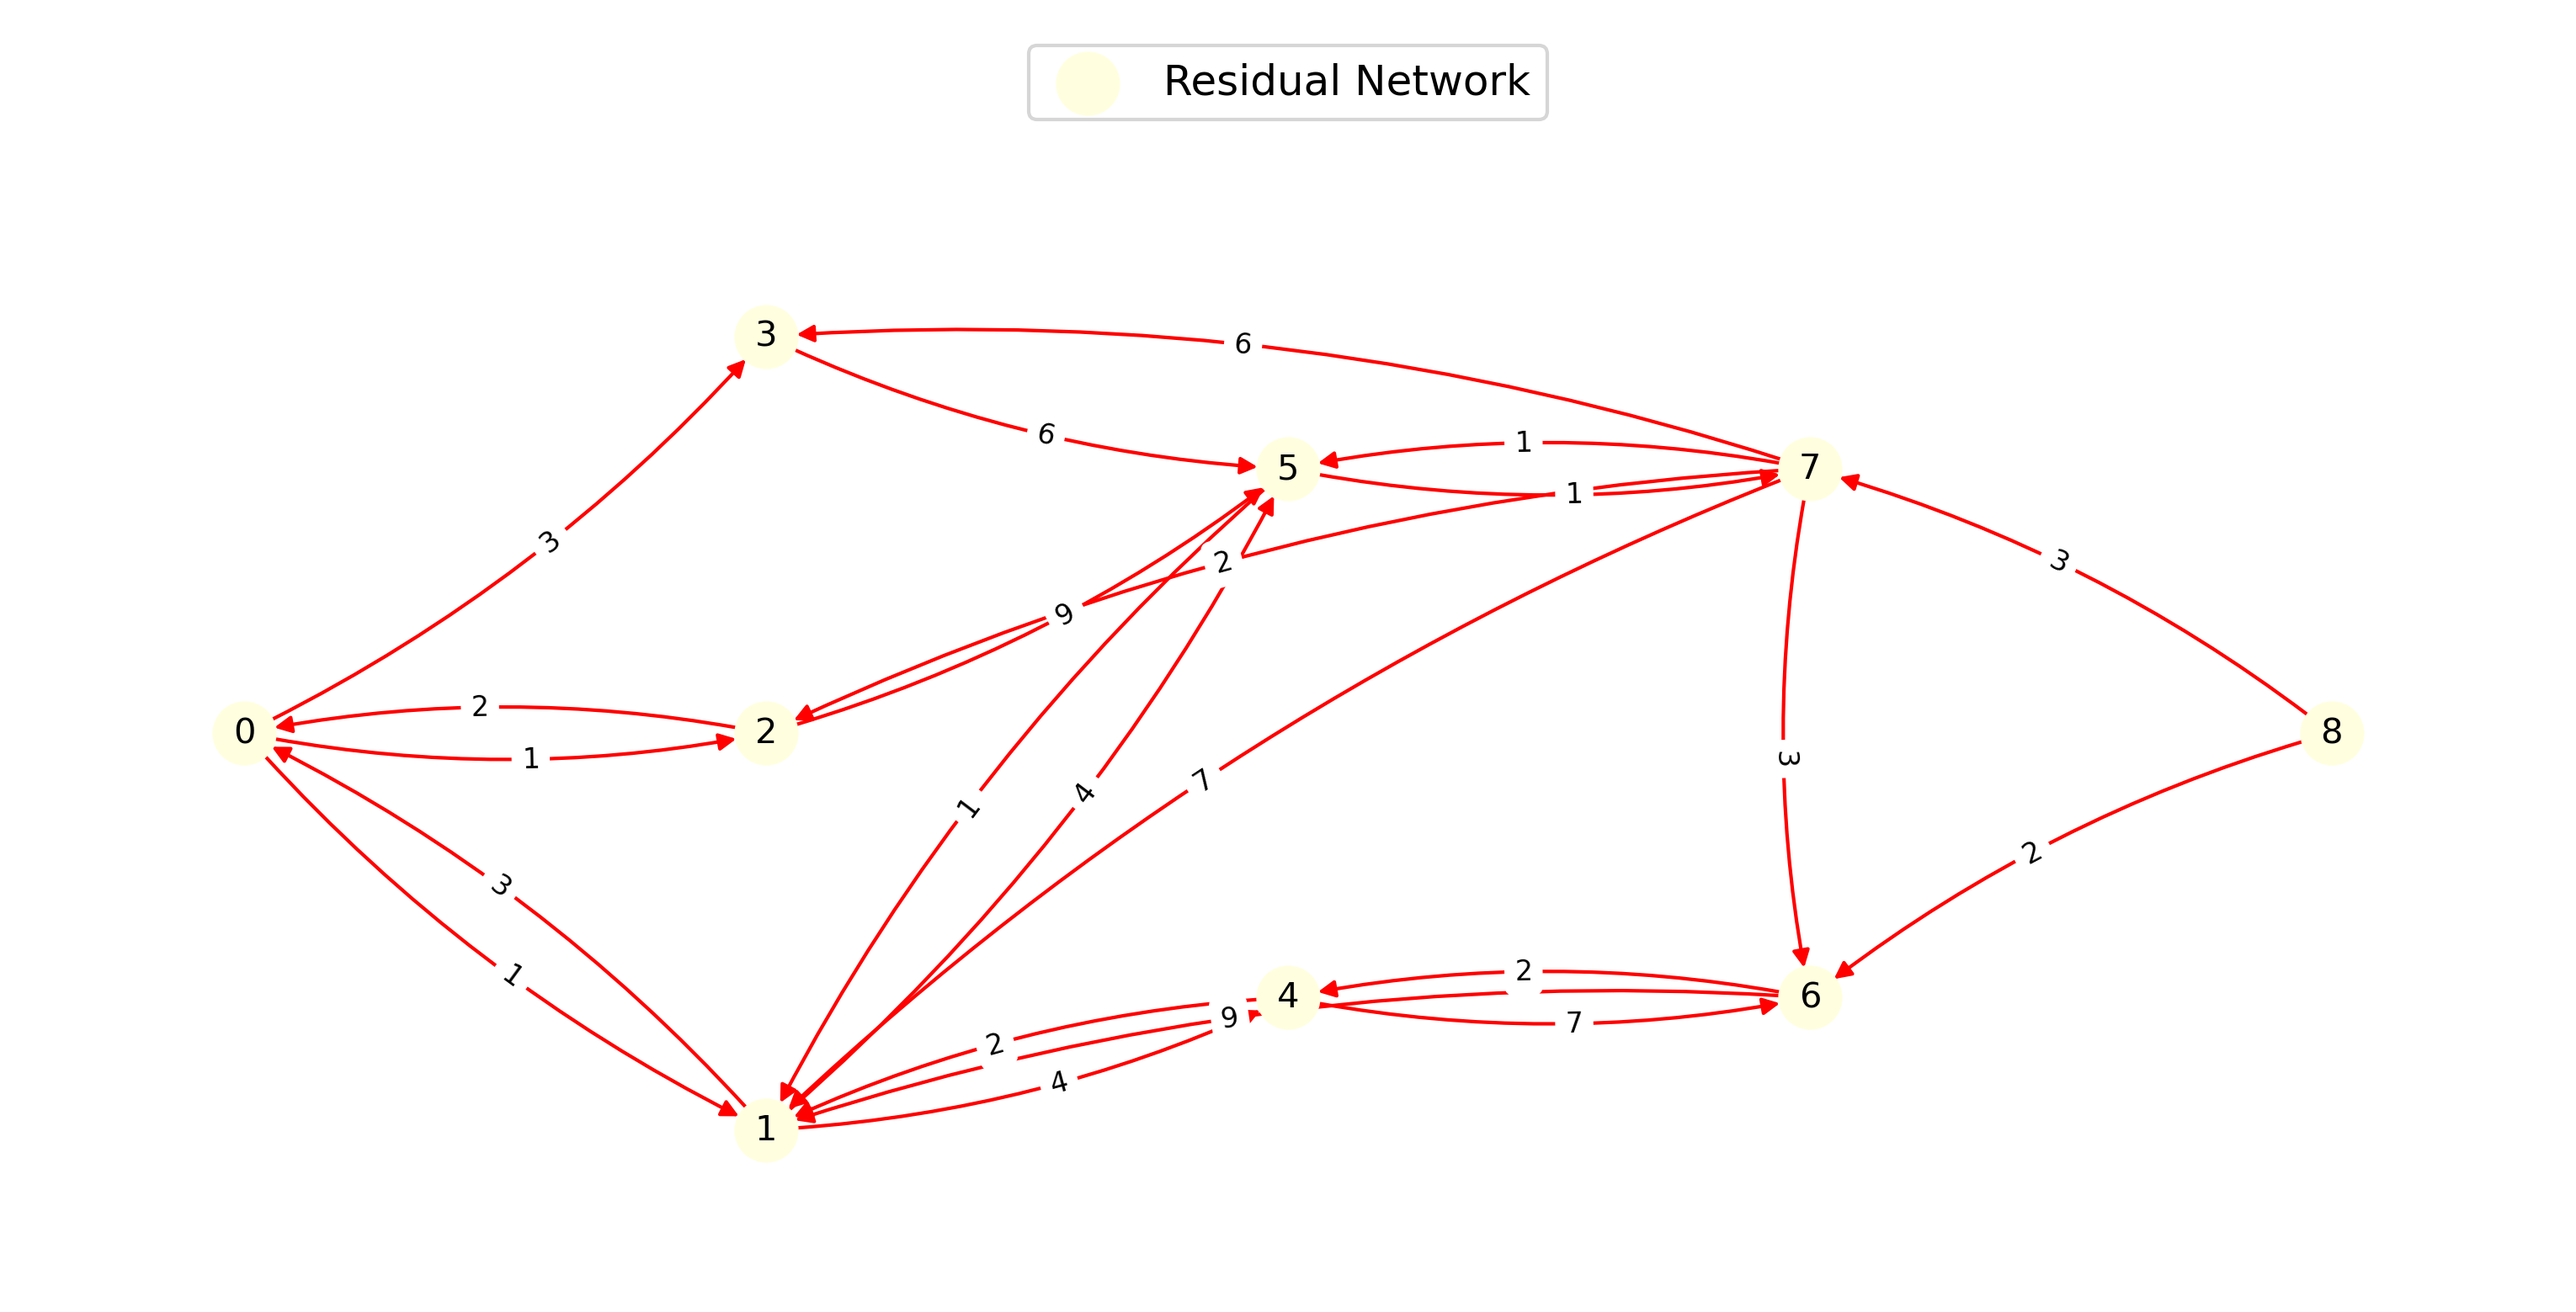
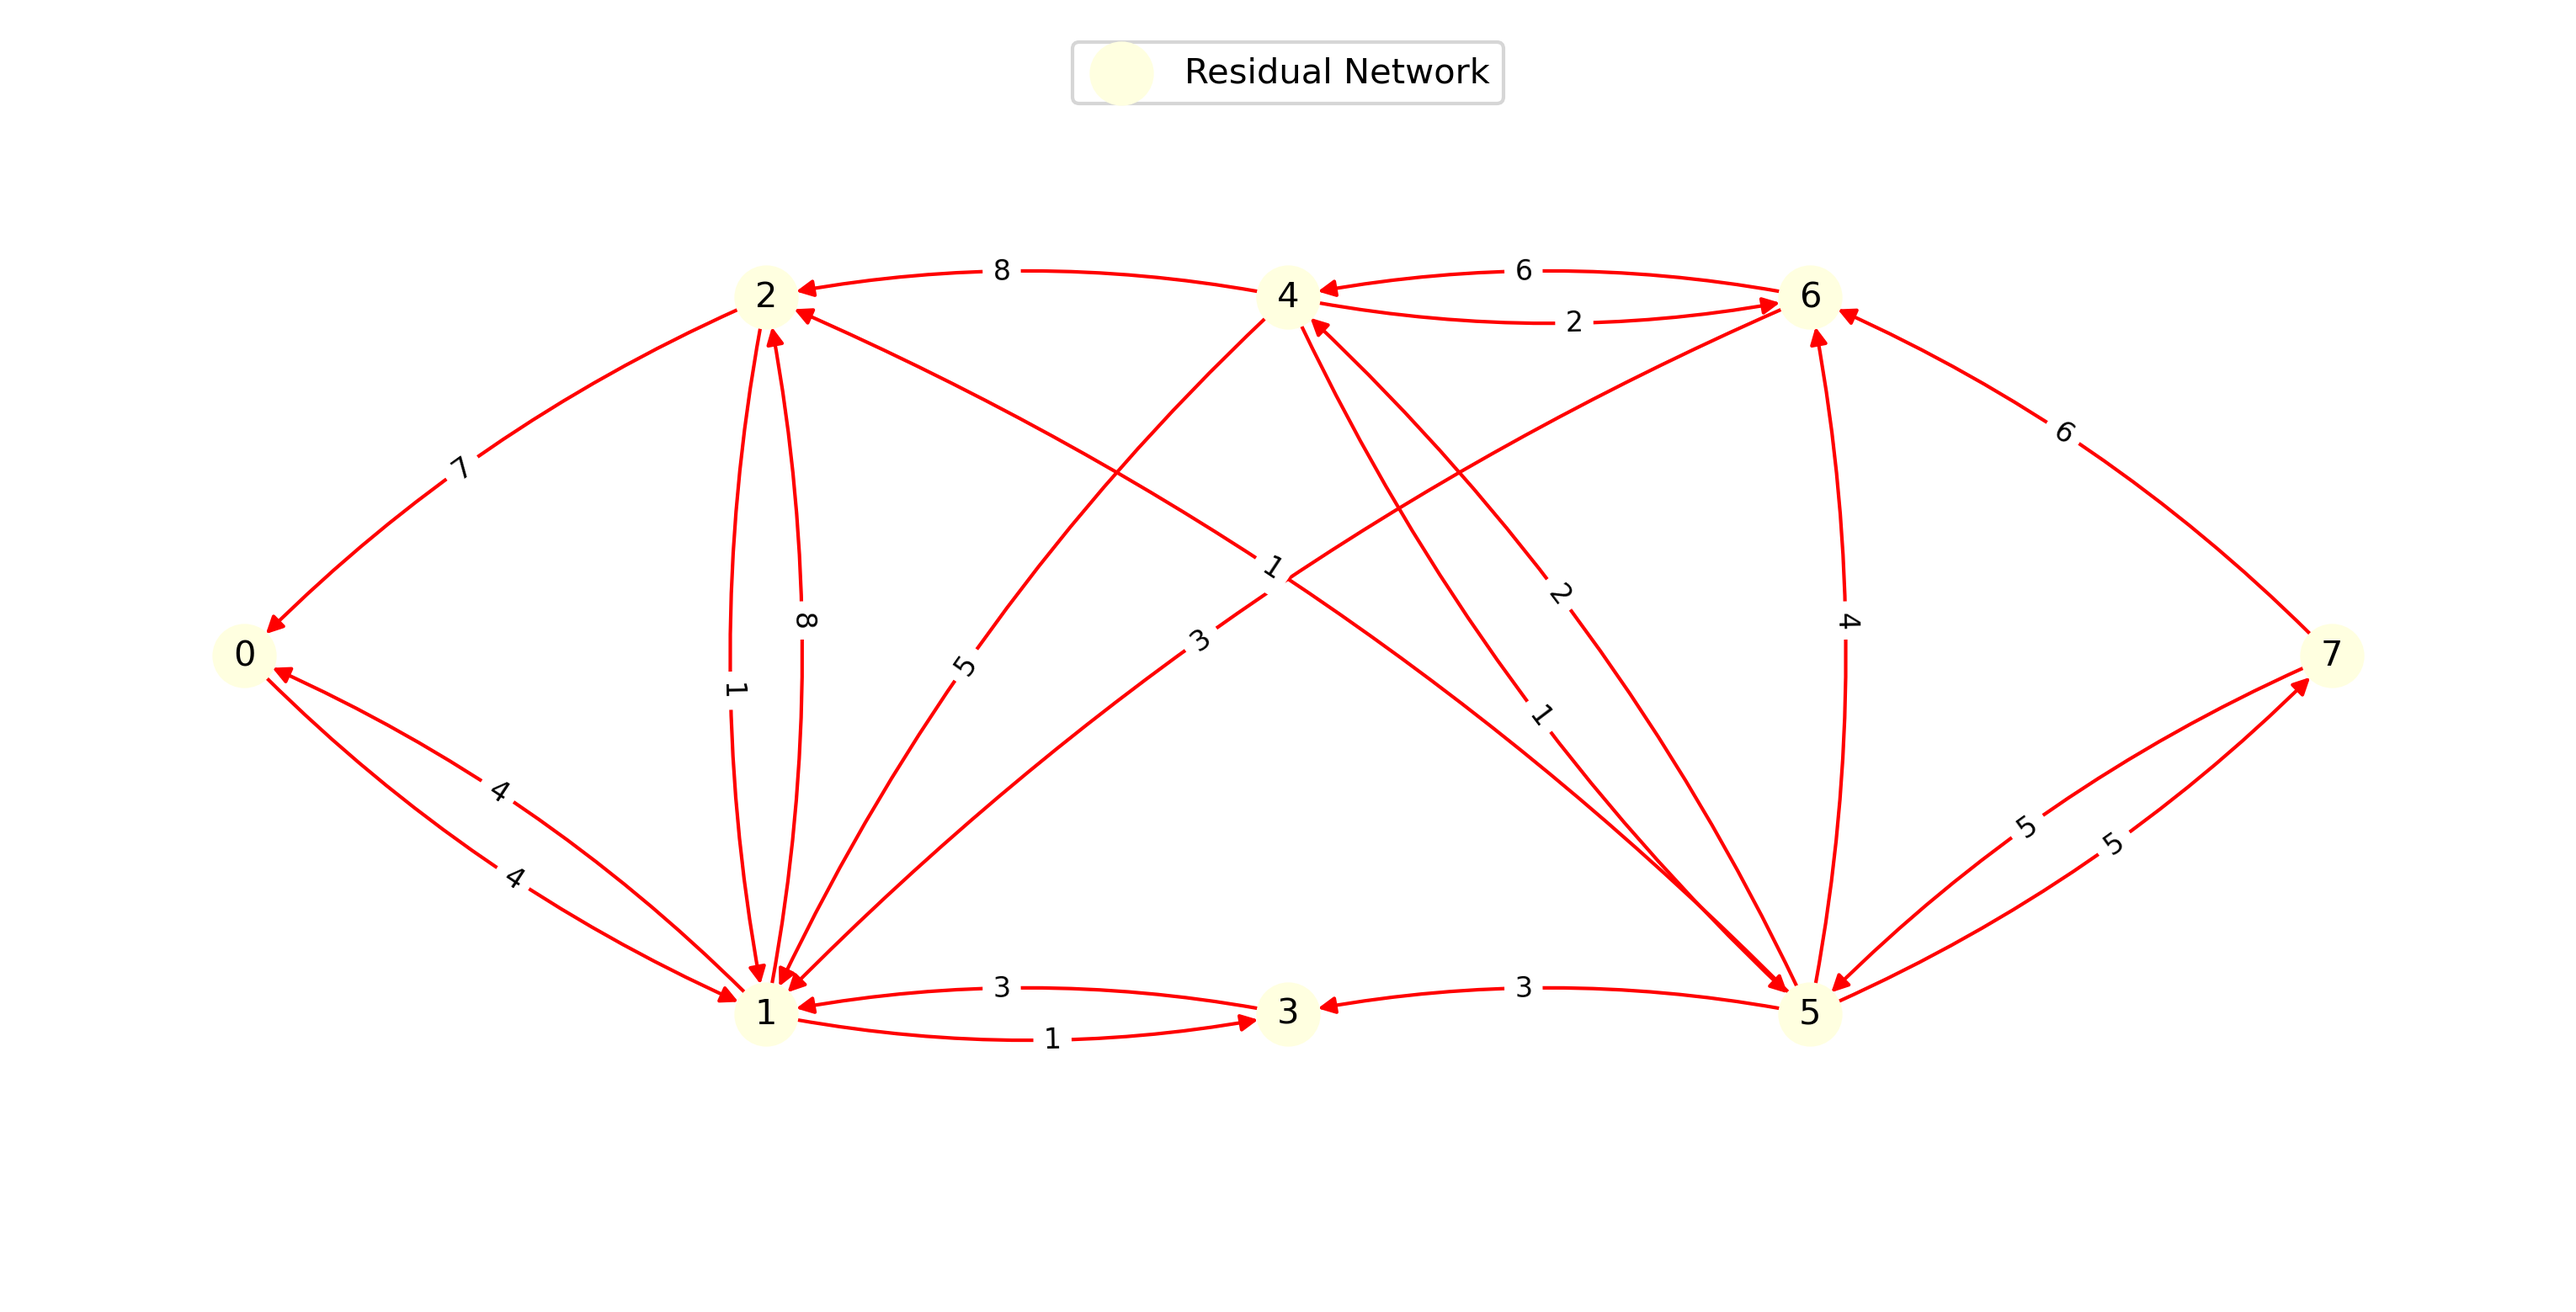
Add debug prints and step-by-step images to Ford-Fulkerson algorithm

diff --git a/Algorithms.py b/Algorithms.py
@@ -1,6 +1,8 @@
 from DirectedMyGraph import *
 from collections import deque, defaultdict
+from DrawGraph import *
 import random
+
 
 # Zestaw 4 (1-2) ------------------------------------------------------------
 def kosaraju(graph: DirectedAdjacencyList) -> dict[int, int]:
@@ -143,49 +145,82 @@ def generate_random_flow_network(nmbr_inter_layers: int, probability: float) -> 
         
     #print(network)
     return network
-    
-def bfs(residual_graph, source, sink, parent):
-    visited = set()
-    queue = deque([source])
+
+# Funkcja BFS, która szuka najkrótszej ścieżki powiększającej(p) w grafie rezydualnym
+def bfs_with_trace(residual_graph, source, sink, parent):
+    visited = set()             # Zbiór odwiedzonych wierzchołków
+    queue = deque([source])     # Kolejka BFS, zaczynamy od źródła
     visited.add(source)
-    
+    parent[source] = None    
+
     while queue:
-        u = queue.popleft()
-        for v in residual_graph[u]:
-            if v not in visited and residual_graph[u][v] > 0:
+        u = queue.popleft()                                    # Bierzemy pierwszy wierzchołek z kolejki
+        for v in residual_graph[u]:                            # Dla każdego sąsiada u
+            if v not in visited and residual_graph[u][v] > 0:  # Jeśli nie był odwiedzony i jest przepustowość
                 visited.add(v)
-                parent[v] = u
-                if v == sink:
-                    return True
+                parent[v] = u       # Zapamiętujemy ścieżkę
                 queue.append(v)
-    return False
+                if v == sink:      
+                    return True, list(visited) 
+    return False, list(visited)    
 
-
-def ford_fulkerson_edmonds_karp(graph, source, sink):
+# Główna funkcja algorytmu Ford-Fulkerson z podejściem Edmondsa-Karpa + rysowanie iteracji
+def ford_fulkerson_edmonds_karp_with_debug(graph, source, sink):
     residual_graph = defaultdict(dict)
+    
     for (u, v), capacity in graph.weighted_edges.items():
-        residual_graph[u][v] = capacity
+        residual_graph[u][v] = capacity # Początkowa przepustowość
         if v not in residual_graph or u not in residual_graph[v]:
-            residual_graph[v][u] = 0  
+            residual_graph[v][u] = 0    # Krawędź wsteczna ma na start 0
 
-    parent = {}
-    max_flow = 0
+    parent = {}          # Słownik śledzenia ścieżki
+    max_flow = 0         # Początkowy przepływ
+    step_counter = 1   
 
-    while bfs(residual_graph, source, sink, parent):
+    # Startowy graf
+    Draw_Residual_Network(graph=graph,residual_graph=residual_graph,legend_title=f"Step {step_counter}: Initial Residual Graph",filename=f"step_{step_counter}.png")
+    step_counter += 1
+
+    # Główna pętla — szukamy ścieżek powiększających
+    while True:
+        # Używamy BFS do znalezienia ścieżki powiększającej (czyli takiej, po której można 
+        # coś jeszcze przesłać). Jeśli nie znajdziemy takiej ścieżki, to kończymy.
+        found, visited_nodes = bfs_with_trace(residual_graph, source, sink, parent)
+
+        if not found:
+            Draw_Residual_Network(graph=graph,residual_graph=residual_graph,legend_title=f"Step {step_counter}: No more augmenting paths",filename=f"step_{step_counter}.png",visited_nodes=visited_nodes)
+            break
+        
+        # Idziemy od końca do początku i szukamy minimalnej dostępnej przepustowości
+        # Sprawdzamy każdą krawędź na ścieżce od końca do początku i wybieramy najmniejszą 
+        # przepustowość — bo więcej niż to nie da się przesłać.
         path_flow = float('inf')
         s = sink
         while s != source:
-            path_flow = min(path_flow, residual_graph[parent[s]][s])
+            path_flow = min(path_flow, residual_graph[parent[s]][s]) # residual_graph[parent[s]][s] to dostępna przepustowość tej krawędzi.
             s = parent[s]
+        
+        # Aktualizujemy przepływy w grafie rezydualnym
         v = sink
         while v != source:
             u = parent[v]
-            residual_graph[u][v] -= path_flow
-            residual_graph[v][u] += path_flow
+            residual_graph[u][v] -= path_flow   # Przepustowość do przodu zmniejszamy
+            residual_graph[v][u] += path_flow   # Przepustowość wstecz zwiększamy
             v = parent[v]
 
-        max_flow += path_flow
-        parent.clear()
+        # Wypisanie znalezionej ścieżki
+        augmenting_path = []
+        v = sink
+        while v is not None:
+            augmenting_path.append(v)
+            v = parent[v]
+        augmenting_path = list(reversed(augmenting_path))
+        print(f"Step {step_counter}: Found augmenting path: {' -> '.join(map(str, augmenting_path))} with flow = {path_flow}")
+
+        max_flow += path_flow # Zwiększamy całkowity przepływ
+        parent.clear()        # Czyścimy rodziców na kolejne szukanie
+        Draw_Residual_Network(graph=graph, residual_graph=residual_graph, legend_title=f"Step {step_counter}: After path, flow += {path_flow}",filename=f"step_{step_counter}.png",visited_nodes=visited_nodes)
+        step_counter += 1
 
     return max_flow, residual_graph
 

diff --git a/DrawGraph.py b/DrawGraph.py
@@ -98,7 +98,9 @@ def Draw_Flow_Network(graph: FlowNetwork, legend_title: str, filename: str = 'fl
         print(f"Błąd podczas rysowania grafu: {e}")
 
 
-def Draw_Residual_Network(graph: FlowNetwork, residual_graph: dict, legend_title: str, filename: str = 'residual_network.png', output_dir: str = "outputs/05"):
+def Draw_Residual_Network(graph: FlowNetwork, residual_graph: dict, legend_title: str,
+                          filename: str = 'residual_network.png', output_dir: str = "outputs/05",
+                          visited_nodes: list = None):
     if not os.path.exists(output_dir):
         os.makedirs(output_dir)
     filepath = os.path.join(output_dir, filename)
@@ -126,12 +128,14 @@ def Draw_Residual_Network(graph: FlowNetwork, residual_graph: dict, legend_title
         edge_labels = nx.get_edge_attributes(G, 'weight')
         nx.draw_networkx_edge_labels(G, pos, edge_labels=edge_labels, connectionstyle="arc3,rad=0.1", font_size=8, label_pos=0.55)
 
-        plt.legend([legend_title], loc="upper center", fontsize=12)
+        legend_text = legend_title
+        if visited_nodes:
+            legend_text += "\nVisited: " + ", ".join(str(v) for v in visited_nodes)
+
+        plt.legend([legend_text], loc="upper center", fontsize=10)
         plt.axis('off')
         plt.savefig(filepath, dpi=300, bbox_inches='tight')
         plt.close()
-
-        print(f"Residualny graf zapisany jako {filepath}")
 
     except Exception as e:
         print(f"Błąd podczas rysowania grafu residualnego: {e}")

diff --git a/zestaw05.py b/zestaw05.py
@@ -1,5 +1,4 @@
-from Algorithms import generate_random_flow_network
-from Algorithms import bfs, ford_fulkerson_edmonds_karp
+from Algorithms import *
 from DrawGraph import *
 
 if __name__ == '__main__':
@@ -24,7 +23,6 @@ if __name__ == '__main__':
     source = 0
     sink = network.n - 1
 
-    max_flow, residual_graph = ford_fulkerson_edmonds_karp(network, source, sink)
+    max_flow, residual_graph = ford_fulkerson_edmonds_karp_with_debug(network, source, sink)
     print("Maksymalny przepływ:", max_flow)
-    
-    Draw_Residual_Network(graph=network, residual_graph=residual_graph, legend_title='Residual Network', filename='residual_network.png', output_dir='outputs/05')
+    Draw_Residual_Network(graph=network, residual_graph=residual_graph, legend_title='Residual Network', filename='residual_network.png', output_dir='outputs/05/')    
